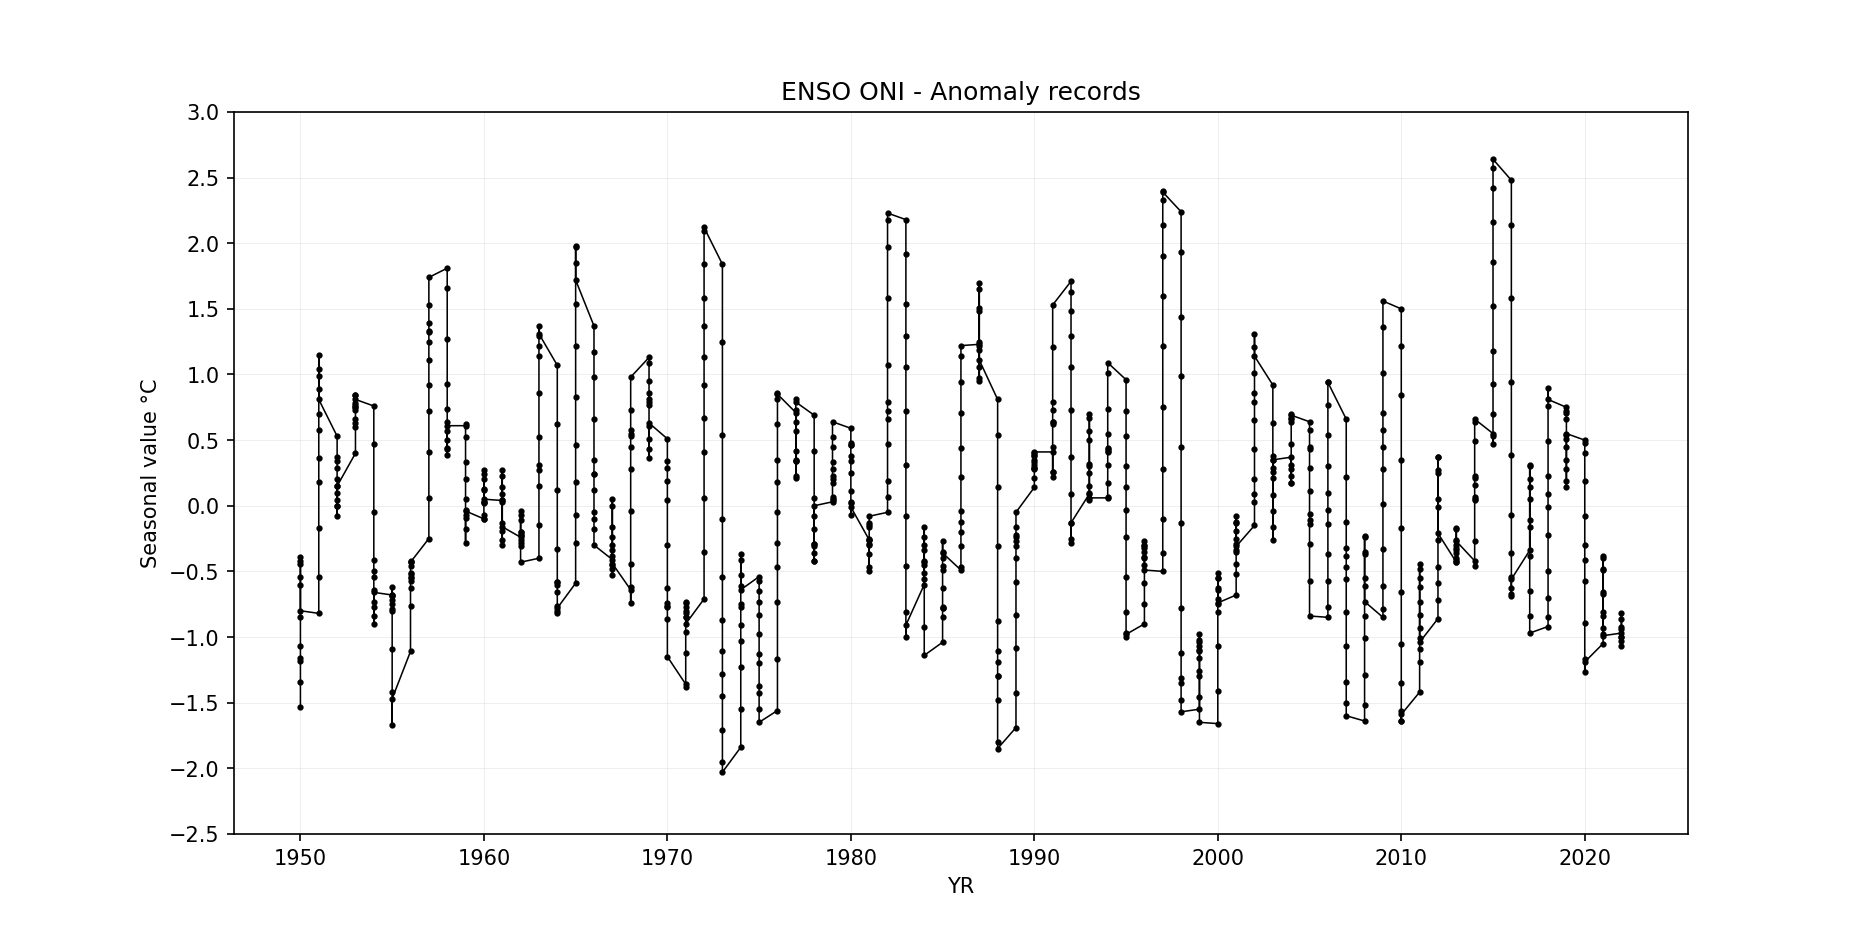
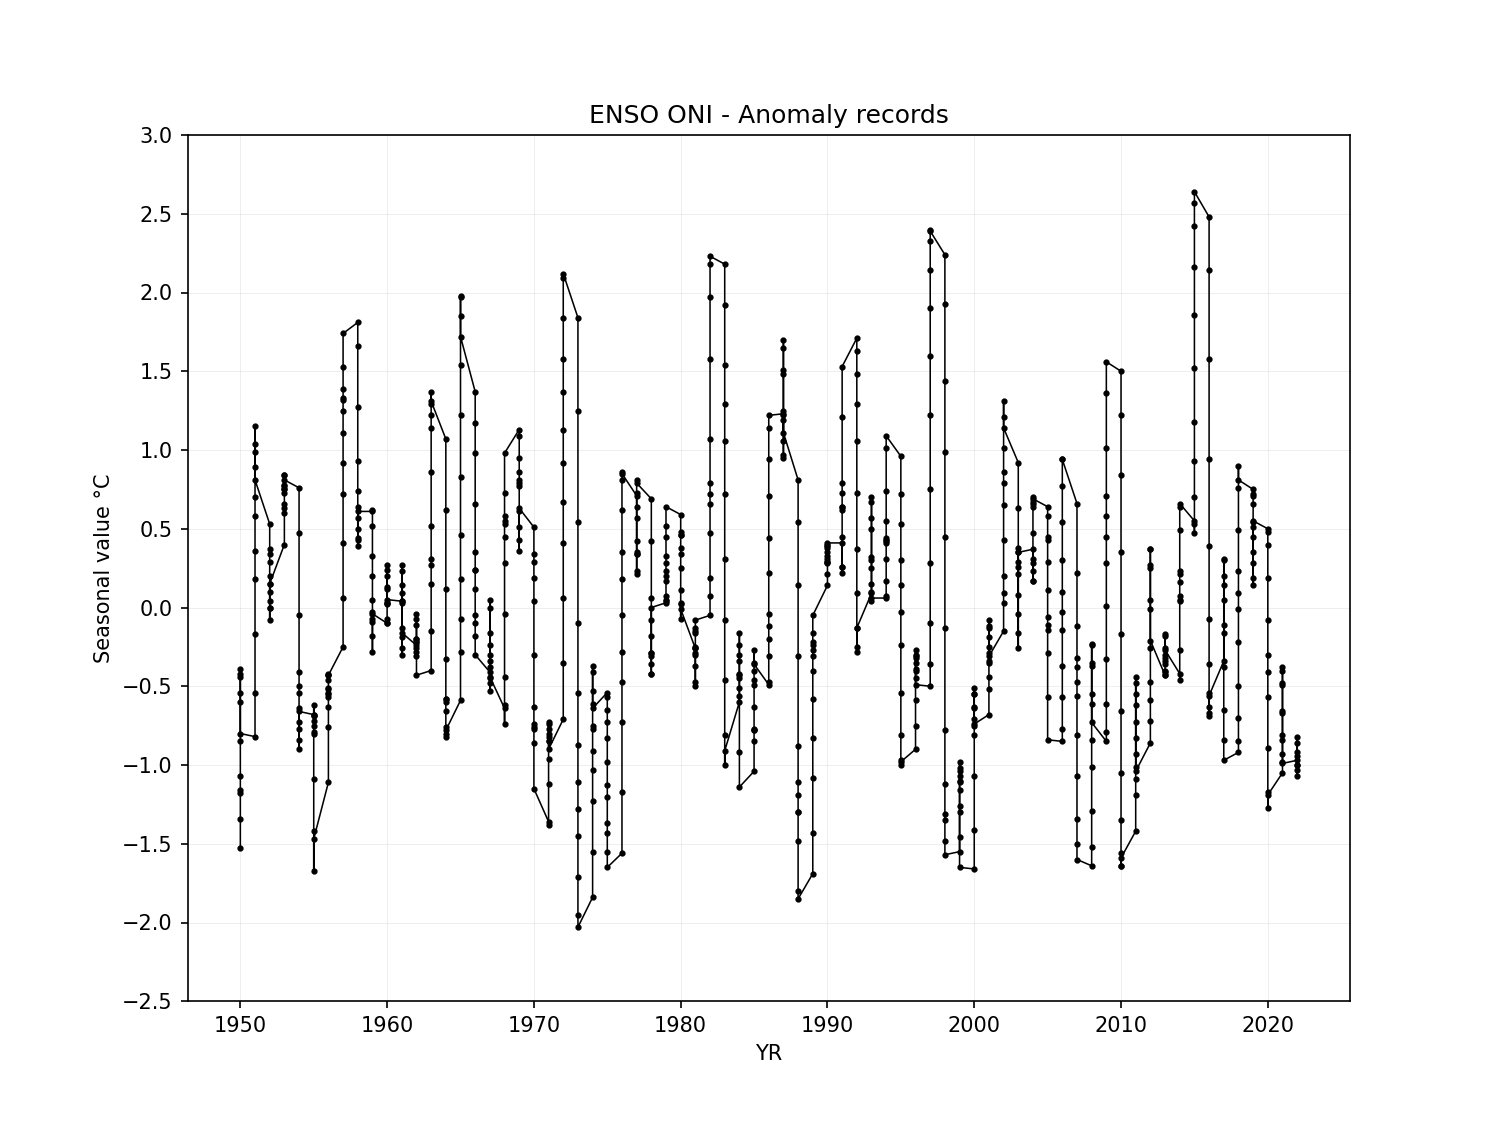
General update.

diff --git a/.src/ENSOONI.py b/.src/ENSOONI.py
@@ -95,7 +95,7 @@ print_log('\nAscii file from: %s' % url_file)
 print_log('\nTable records', center_div=True)
 print_log(df.to_markdown(), center_div=True)
 # Plot historic values
-ax = df.plot(x='YR', y='TOTAL',  color='black', legend=False, figsize=(fig_size*2.5, fig_size*1.25), kind='line', grid=False, style='.-', ms=4, mfc='black', mec='black', linewidth=0.75)
+ax = df.plot(x='YR', y='TOTAL',  color='black', legend=False, figsize=(fig_size*2, fig_size*1.5), kind='line', grid=False, style='.-', ms=4, mfc='black', mec='black', linewidth=0.75)
 plt.title('ENSO ONI - Historic records')
 ax.set_ylabel('Seasonal value °C')
 plt.grid(color='silver', linestyle='-', linewidth=0.25, alpha=0.5)
@@ -104,7 +104,7 @@ if show_plot: plt.show()
 plt.close('all')
 print_log('\n![R.LTWB](%s)' % (local_file + file_extension + '_Historic.png'), center_div=False)
 # Plot anomaly values
-ax = df.plot(x='YR', y='ANOM',  color='black', legend=False, figsize=(fig_size*2.5, fig_size*1.25), kind='line', grid=False, style='.-', ms=4, mfc='black', mec='black', linewidth=0.75)
+ax = df.plot(x='YR', y='ANOM',  color='black', legend=False, figsize=(fig_size*2, fig_size*1.5), kind='line', grid=False, style='.-', ms=4, mfc='black', mec='black', linewidth=0.75)
 plt.title('ENSO ONI - Anomaly records')
 ax.set_ylabel('Seasonal value °C')
 plt.grid(color='silver', linestyle='-', linewidth=0.25, alpha=0.5)
